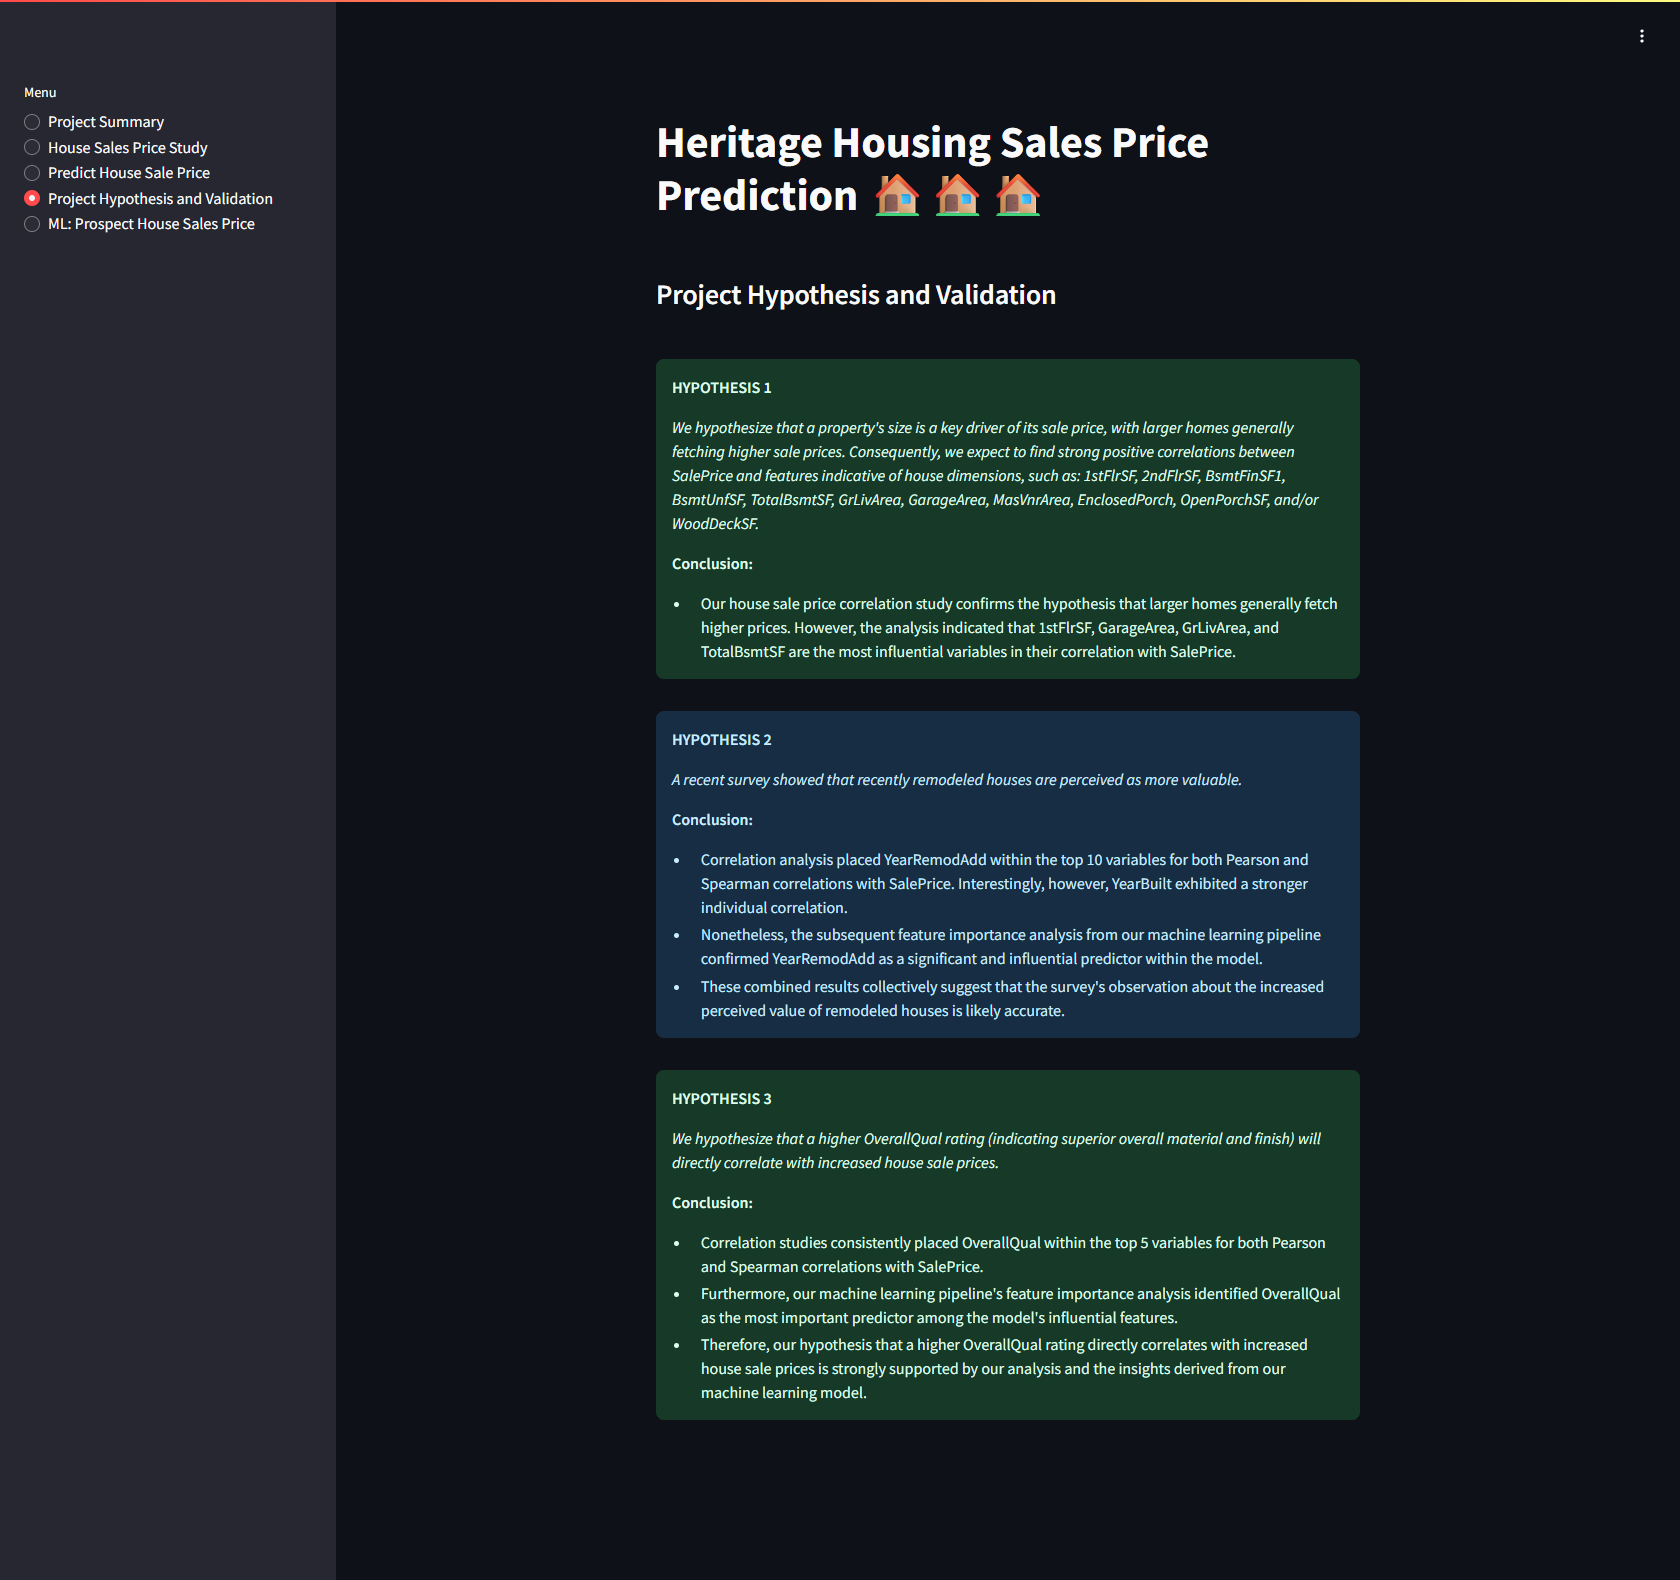
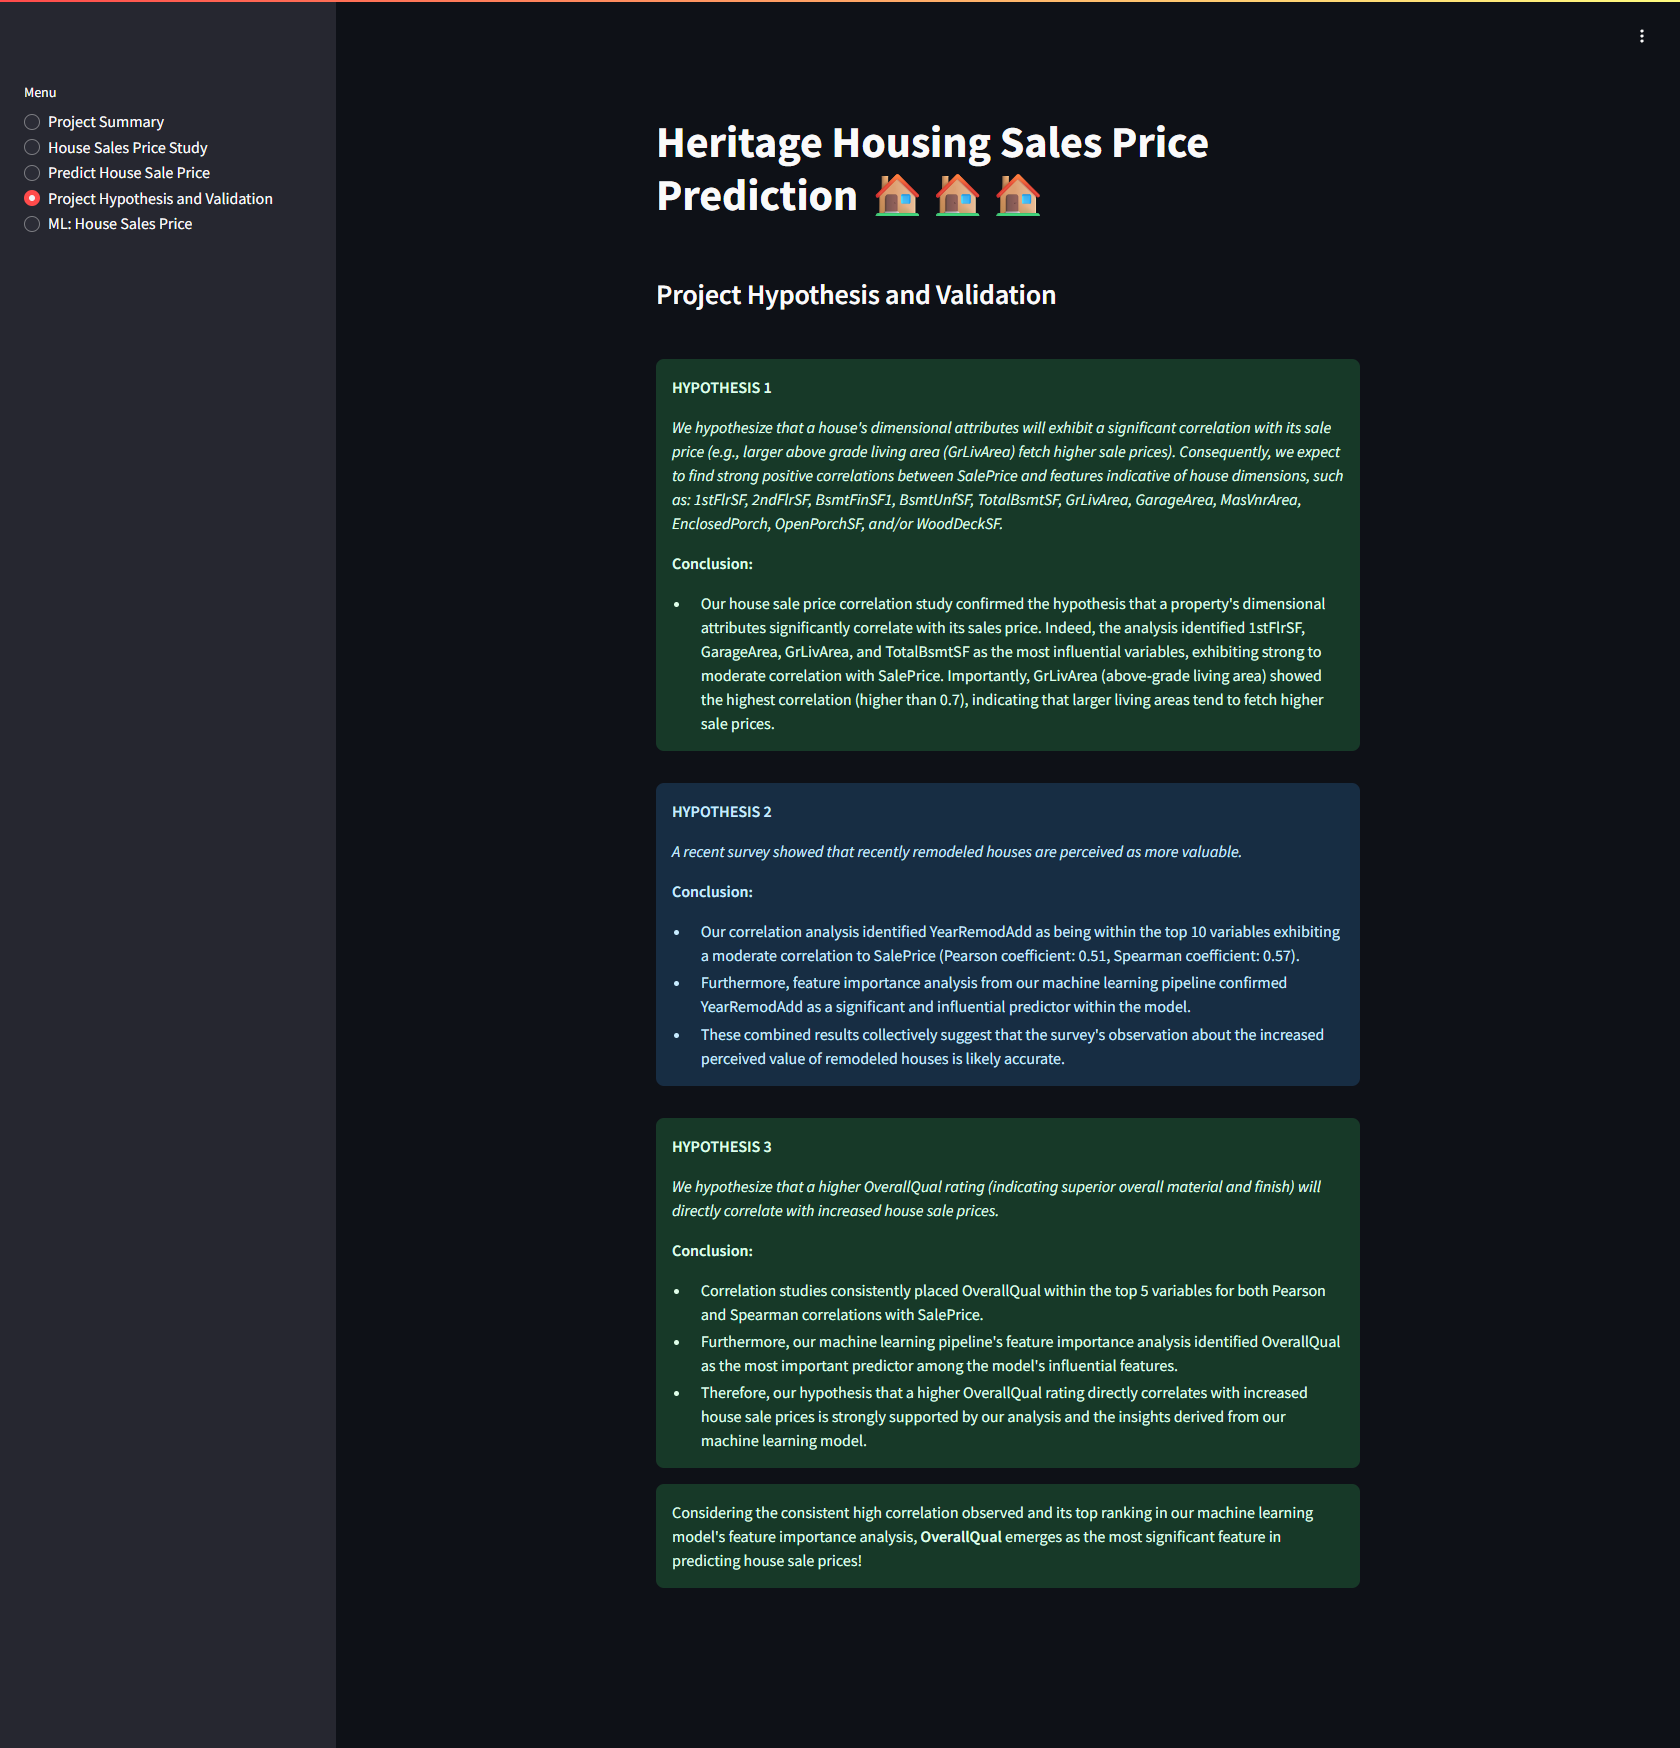
Update Page4 screenshot

Changed region(s): [[0.3714, 0.062, 0.8357, 0.9304], [0.0, 0.031, 0.1548, 0.1551]]

diff --git a/README.md b/README.md
@@ -531,13 +531,14 @@ The adoption of the CRISP-DM framework provided a structured, systematic, and it
 
 ## Unfixed Bugs
 
-+ Deployment to Heroku did not work due to the compiled lug size, which was larger than the max permitted (500 M).
++ Deployment to [Heroku](https://www.heroku.com/) did not work due to the compiled lug size, which was larger than the max permitted (500 M) (Figure below).
+
   + Solution: Deployment was peformed using the [Render](https://render.com/) platform instead.
 
 ![Failed Deployment to Heroku](documentation/bugs/failed_deployment_heroku.png)
 
 > [!IMPORTANT]
-> There are no remaining bugs that I am aware of, though, even after thorough testing, I cannot rule out the possibility.
+> There are no remaining bugs that I am aware of.
 
 ---
 
@@ -662,7 +663,7 @@ transformation (as vt) vt.YeoJohnsonTransformer: A feature_engine transformer th
   
 + Explore unsupervised machine learning techniques, such as clustering, to identify natural groupings among the house records from Ames, Iowa, based on their characteristics.
 
-+ Pearson and Spearman correlation highlighted YearBuilt's strong relationship with SalePrice. However, YearBuilt was eliminated during the SmartCorrelatedSelection phase of the regression pipeline, with YearRemod ultimately being selected as a top feature by SelectFromModel. Therefore, I am interested in refitting the pipeline while explicitly retaining YearBuilt to further assess its contribution.
++ Pearson and Spearman correlation highlighted YearBuilt's moderate to strong correlation with SalePrice. However, YearBuilt was eliminated during the SmartCorrelatedSelection phase of the regression pipeline, with YearRemod ultimately being selected as a top feature by SelectFromModel. Therefore, I am interested in refitting the pipeline while explicitly retaining YearBuilt to further assess its contribution.
   
 + Customize visualizations of top correlated variables against SalePrice for enhanced clarity. For instance, YearBuilt's relationship with SalePrice could be better represented using a linear plot instead of a scatter plot.
 
